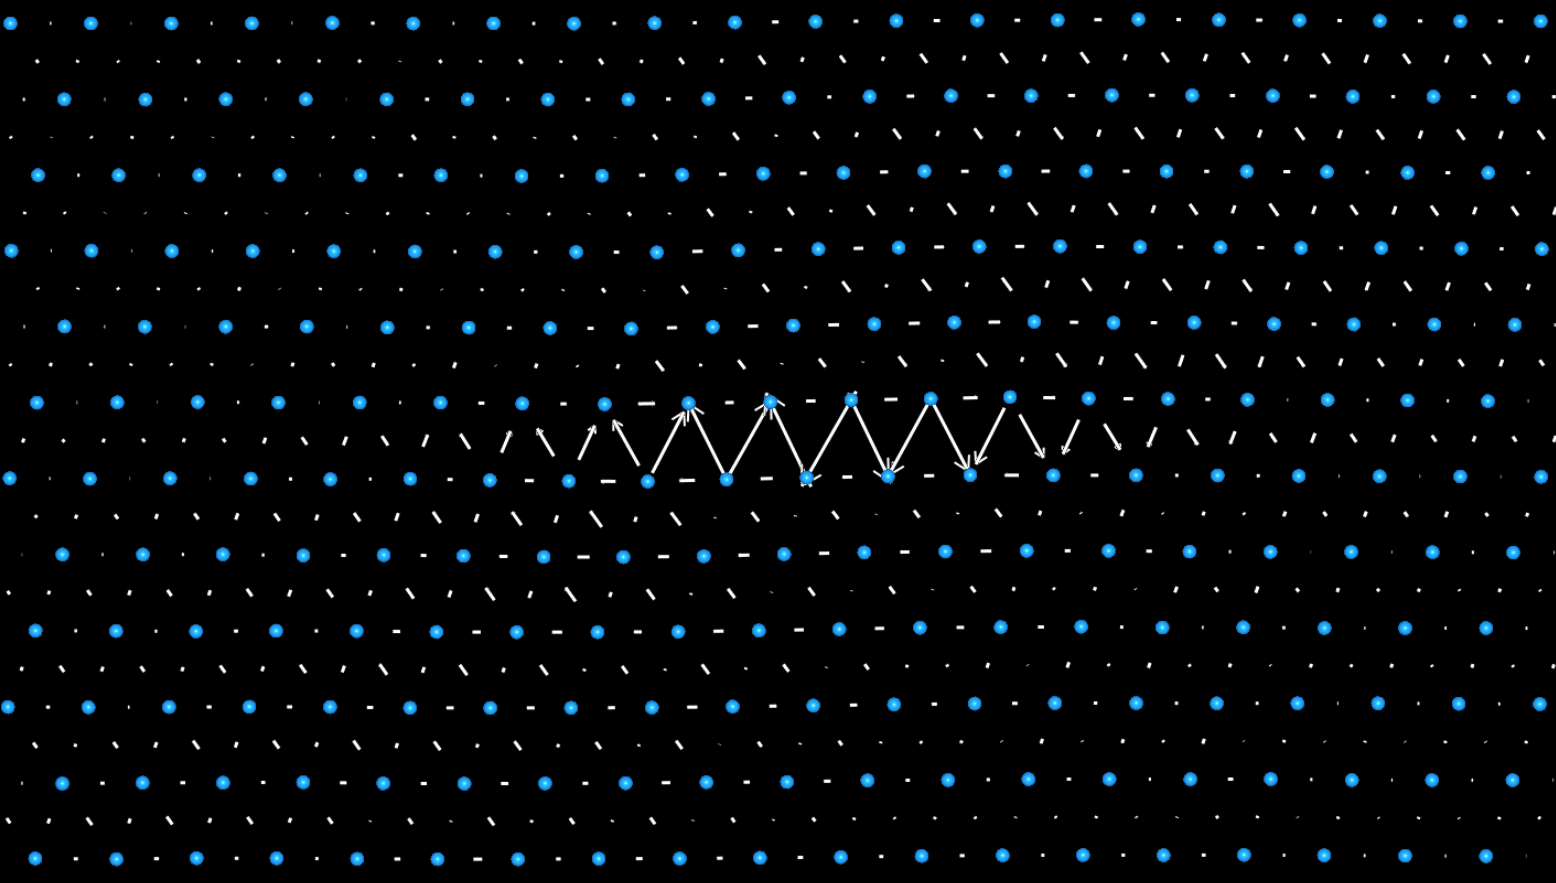
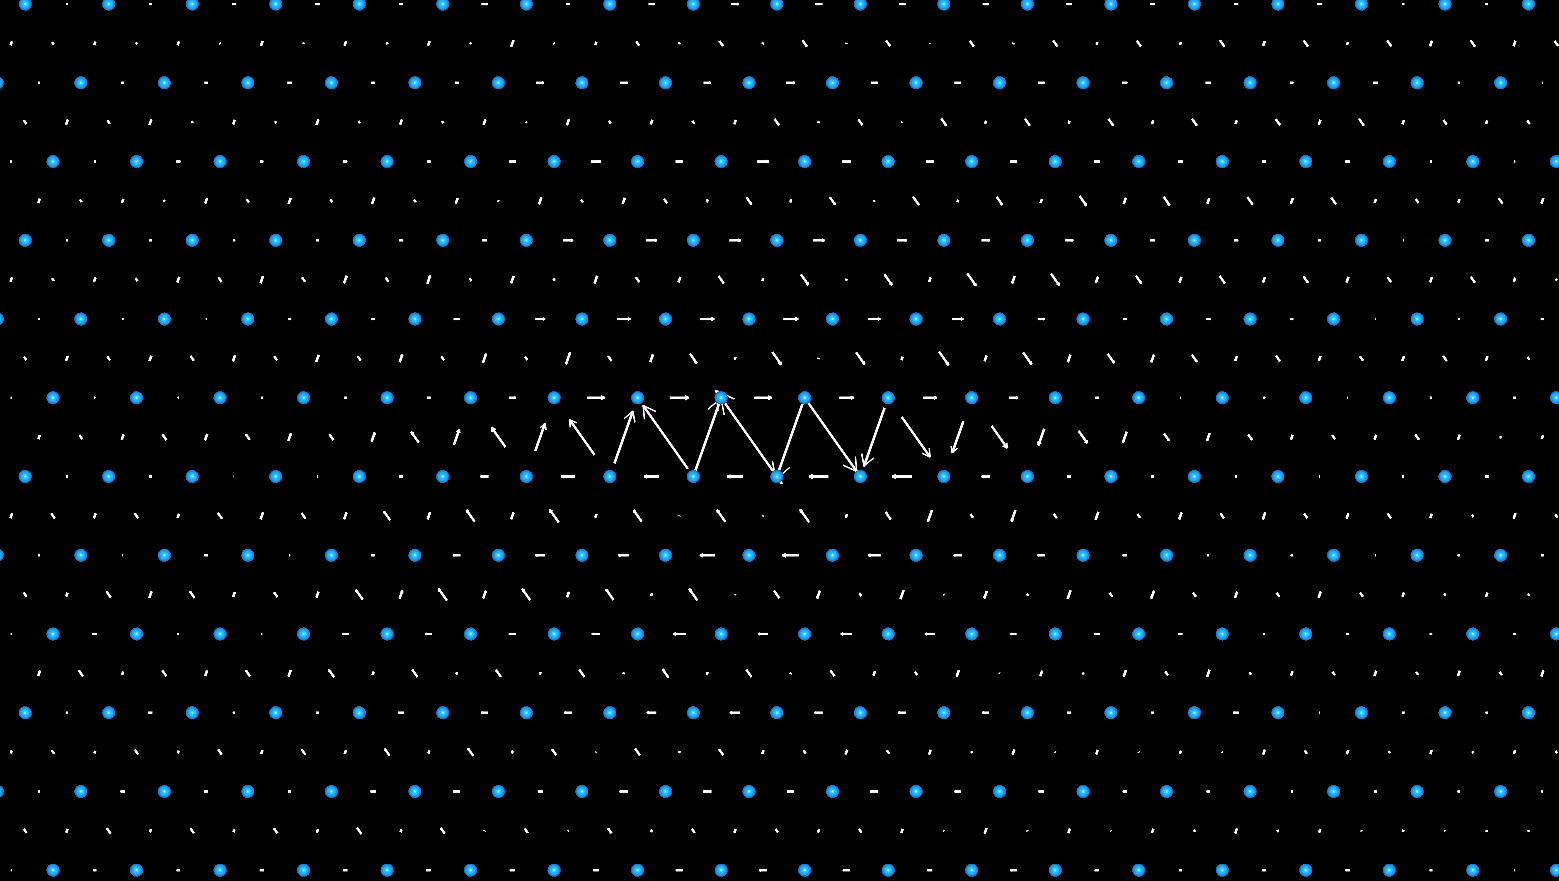
update

diff --git a/index.html b/index.html
@@ -91,7 +91,7 @@
 <p>CryDisGen represents <strong>Cry</strong>stal <strong>Dis</strong>location <strong>Gen</strong>erator.</p>
 <p>CryDisGen is a scientific software tailored for researchers and engineers working with crystal structures. Originally developed by Bian et. al. from <a class="reference external" href="https://www.xauat.edu.cn">Xi’an University of Architecture and Technology</a> and <a class="reference external" href="https://www.xjtu.edu.cn">Xi’an Jiaotong Univeristy</a>, CryDisGen empowers users to create precise atomic models of general dislocation structures in crystals. With its robust modeling capabilities, this free tool supports academic, non-commercial, and commercial applications—making advanced crystallographic research more accessible and efficient.
 Now at version 1.0, CryDisGen is actively maintained with updates from its creators, ensuring reliable performance for its users.</p>
-<p><a class="reference internal" href="_images/core_fcc_al.png"><img alt="fcc" src="_images/core_fcc_al.png" style="width: 48%;" /></a> <a class="reference internal" href="_images/core_bcc_nb.png"><img alt="bcc" src="_images/core_bcc_nb.png" style="width: 48%;" /></a></p>
+<p><a class="reference internal" href="_images/core_fcc_al_relaxed.png"><img alt="fcc" src="_images/core_fcc_al_relaxed.png" style="width: 48%;" /></a> <a class="reference internal" href="_images/core_bcc_nb_relaxed.png"><img alt="bcc" src="_images/core_bcc_nb_relaxed.png" style="width: 48%;" /></a></p>
 <div style="text-align: center;"><i> Core structures of screw dislocations in single crystal FCC aluminum (left) and BCC niobium (right).</i></div><hr class="docutils" />
 <p>Once you’re familiar with CryDisGen, we recommend bookmarking the page <a class="reference internal" href="Tags.html"><span class="doc">Tags in Parameter file</span></a>, which provides quick access to all tags with clear explanations that the CryDisGen code uses in the Parameter file.</p>
 </section>

diff --git a/Examp_screw.html b/Examp_screw.html
@@ -104,8 +104,8 @@
 <h1><span class="section-number">8.11. </span>Straight screw dislocation<a class="headerlink" href="#straight-screw-dislocation" title="Link to this heading"></a></h1>
 <p><a class="reference internal" href="_images/screw0.png"><img alt="screw0" src="_images/screw0.png" style="width: 48%;" /></a> <a class="reference internal" href="_images/screw1.png"><img alt="screw1" src="_images/screw1.png" style="width: 48%;" /></a></p>
 <p><em>A straight screw dislocation is created in a single-crystal aluminum sample: the unrelaxed configuration ( left ) and the relaxed configuration ( right ). In the figures, atoms in perfect FCC lattice are not shown for clarity. White atoms are those at free surface, and red atoms are those in HCP lattice.</em></p>
-<p><a class="reference internal" href="_images/core_fcc_al_relaxed.png"><img alt="core" src="_images/core_fcc_al_relaxed.png" style="width: 48%;" /></a></p>
-<p><em>The core structure of the relaxed screw dislocation in aluminum, corresponding to the atomic model in the top right figure.</em></p>
+<p><a class="reference internal" href="_images/core_fcc_al_unrelaxed.png"><img alt="core0" src="_images/core_fcc_al_unrelaxed.png" style="width: 48%;" /></a> <a class="reference internal" href="_images/core_fcc_al_relaxed.png"><img alt="core1" src="_images/core_fcc_al_relaxed.png" style="width: 48%;" /></a></p>
+<p><em>The core structures of the unrelaxed ( left) and the relaxed ( right ) screw dislocations in aluminum, corresponding to the atomic models in the top figures.</em></p>
 <hr class="docutils" />
 <div class="admonition note">
 <p class="admonition-title">Note</p>
